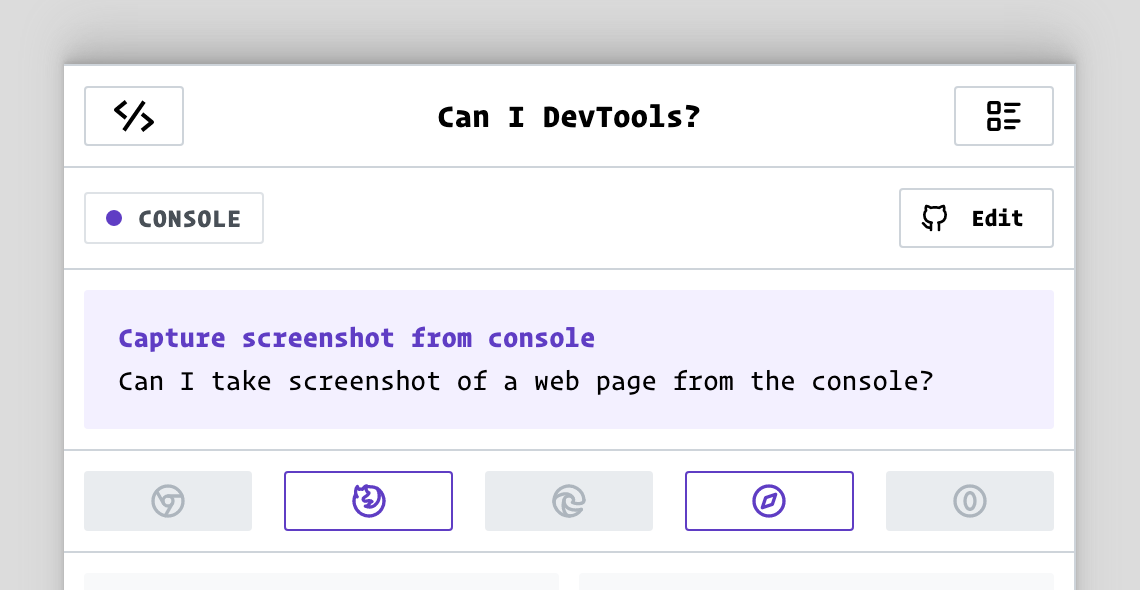
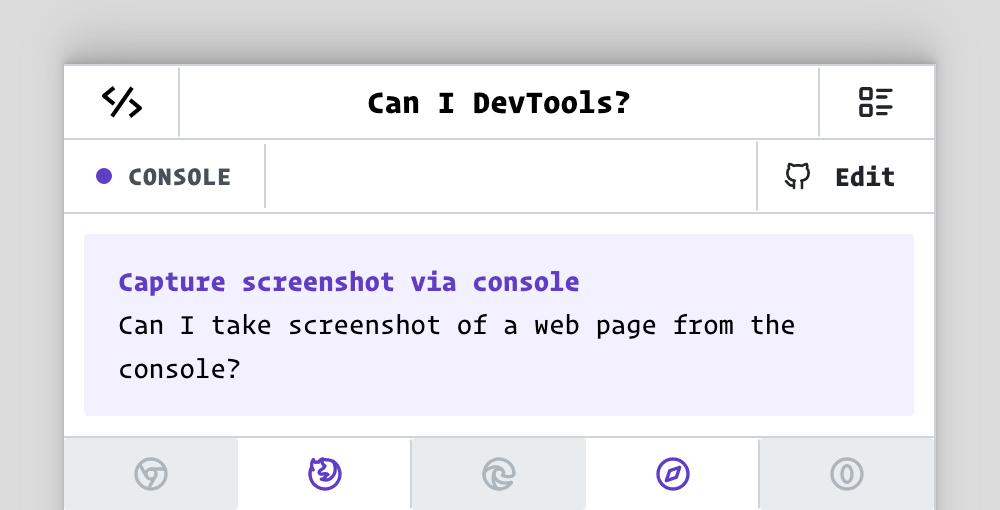
capture screenshot from console

diff --git a/README.md b/README.md
@@ -178,14 +178,15 @@
 - [Opera](https://canidev.tools/capture-node-stacktrace/opera) 
  1. Enable "Capture node creation stacks" in Settings (`F1`) > Experiments.
 2. In the **Elements** panel > Select the node > Open the **Stack** **Trace** pane in the side panel to show the stack trace of the node creation. 
-## 14. Capture screenshot from console 
+## 14. Capture screenshot via console 
  Can I take screenshot of a web page from the console? 
 - [Firefox](https://canidev.tools/capture-screenshot-console/firefox) 
- 1. Firefox has a built-in helper function `:selector` to capture screenshot of the current page from the console. Example:
+ 1. Firefox has a built-in helper function `:screenshot` to capture screenshot of the current page from the console. 
+2. For example:
 ```
-:screenshot
-:screenshot --fullpage
-:screenshot --selector .css-selector
+    :screenshot
+    :screenshot --fullpage
+    :screenshot --selector .css-selector
 ```
 - [Safari](https://canidev.tools/capture-screenshot-console/safari) 
  1. Use `console.screenshot()` to capture the screenshot of the viewport. Alternatively, pass the target node to the function to capture screenshot of a specific node.
